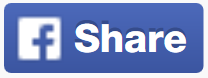
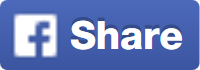
add facebook buttons to articles

diff --git a/index.html b/index.html
@@ -6,6 +6,7 @@
     <title>Thrasher Magazine</title>
   </head>
   <body>
+    <div id="mobile">
     <img class="shoe-ad" src="img/new-balance-ad.jpg" alt="new balance ad"/>
     <!--navbar-->
     <nav class="navbar navbar-inverse">
@@ -61,6 +62,13 @@
     </div>
     <!--/video card-->
 
+    <div class="black-1">
+    </div>
+    <div class="black-2">
+    </div>
+
+    <!--article card 1-->
+
     <div class="article-card">
       <h4>Vince Staples Interview</h4>
       <div class="article-image">
@@ -68,8 +76,13 @@
       </div>
       <div class="article-text">
         <p>Vince Staples had Lorem ipsum dolor sit amet, consectetur adipisicing elit, sed do eiusmod tempor incididunt ut labore et dolore magna aliqua.</p>
+        <img class="facebook-icon" src="img/facebook-icon.png" alt="facebook like icon">
+        <img class="facebook-icon share" src="img/facebook-share-icon.png" alt="facebookshare icon">
       </div>
     </div>
+    <!--/article card 1-->
+
+    <!--article card 2-->
     <div class="article-card">
       <h4>Thrash and Burn 2017</h4>
       <div class="article-image">
@@ -77,8 +90,13 @@
       </div>
       <div class="article-text">
         <p>Thrash and burn had Lorem ipsum dolor sit amet, consectetur adipisicing elit, sed do eiusmod tempor incididunt ut labore et dolore magna aliqua.</p>
+        <img class="facebook-icon" src="img/facebook-icon.png" alt="facebook like icon">
+        <img class="facebook-icon share" src="img/facebook-share-icon.png" alt="facebookshare icon">
       </div>
     </div>
+    <!--/article card 2-->
+
+    <!--article card 3-->
     <div class="article-card">
       <h4>John Lydon Interview</h4>
       <div class="article-image">
@@ -86,8 +104,14 @@
       </div>
       <div class="article-text">
         <p>John Lydon had Lorem ipsum dolor sit amet, consectetur adipisicing elit, sed do eiusmod tempor incididunt ut labore et dolore magna aliqua.</p>
+        <img class="facebook-icon" src="img/facebook-icon.png" alt="facebook like icon">
+        <img class="facebook-icon share" src="img/facebook-share-icon.png" alt="facebookshare icon">
       </div>
     </div>
+    <!--/article card 3-->
+
+
+    <!--article card 4-->
     <div class="article-card">
       <h4>SKATELINE 05.30.2107</h4>
       <div class="article-image">
@@ -95,10 +119,17 @@
       </div>
       <div class="article-text">
         <p>Skateline had Lorem ipsum dolor sit amet, consectetur adipisicing elit, sed do eiusmod tempor incididunt ut labore et dolore magna aliqua.</p>
+        <img class="facebook-icon" src="img/facebook-icon.png" alt="facebook like icon">
+        <img class="facebook-icon share" src="img/facebook-share-icon.png" alt="facebookshare icon">
       </div>
     </div>
-    <div class="black">
+    <!--/article card 4-->
+
+    <!--black ad wrapper-->
+    <div class="black-ad-wrapper">
       <img class="shoe-ad-square" src="img/new-balance-square-ad.jpeg" alt="new balance shoes ad">
     </div>
+  </div>
+    <!--/black ad wrapper-->
   </body>
 </html>

diff --git a/stylesheets/output.css b/stylesheets/output.css
@@ -502,7 +502,7 @@ body {
   width: 100%; }
 
 .article-card {
-  height: 184px;
+  min-height: 184px;
   border-bottom: 4px solid black;
   padding: 10px;
   overflow: auto; }
@@ -518,9 +518,11 @@ body {
 .article-text {
   width: 60%;
   float: left;
-  padding: 10px; }
+  padding: 0px 10px 10px 10px;
+  height: 120px;
+  position: relative; }
 
-.black {
+.black-ad-wrapper {
   background-color: black;
   height: 300px;
   position: relative; }
@@ -537,22 +539,31 @@ body {
   -o-transform: translate(-50%, -50%);
   transform: translate(-50%, -50%); }
 
+.article-text .facebook-icon {
+  position: absolute;
+  left: 10px;
+  top: 85px; }
+
+.article-text .share {
+  left: 79px;
+  top: 96px; }
+
 .thrasher-logo {
-  height: auto;
-  width: 110px; }
+  height: 30px;
+  width: 120px; }
 
 .navbar-inverse {
   background-color: #000;
   border-color: #000; }
 
 .navbar {
-  margin: 0; }
+  margin: 0;
+  height: 60px; }
 
 .video-bg {
   background-image: url("../img/concrete.jpg");
   background-size: cover;
-  padding: 15px;
-  border-bottom: 1px dashed grey; }
+  padding: 10px; }
 
 .video-card {
   width: 100%;
@@ -566,9 +577,19 @@ body {
 
 .video-text {
   background-color: white;
-  padding: 10px; }
+  padding: 10px;
+  border-top: 1px solid black; }
 
 .facebook-icon {
   width: 70px; }
+
+.black-1 {
+  background-color: black;
+  height: 15px;
+  border-bottom: 1px dashed grey; }
+
+.black-2 {
+  background-color: black;
+  height: 25px; }
 
 /*# sourceMappingURL=output.css.map */

diff --git a/stylesheets/layout/_panels.scss b/stylesheets/layout/_panels.scss
@@ -1,9 +1,8 @@
 .article-card {
-  height: 184px;
+  min-height: 184px;
   border-bottom: 4px solid black;
   padding: 10px;
   overflow: auto;
-
 }
 
  .article-image img {
@@ -18,11 +17,13 @@
 .article-text {
   width: 60%;
   float: left;
-  padding: 10px;
+  padding: 0px 10px 10px 10px;
+  height: 120px;
+  position: relative;
 }
 
 
-.black {
+.black-ad-wrapper {
   background-color: black;
   height: 300px;
   position: relative;
@@ -31,5 +32,16 @@
 .shoe-ad-square {
   @include position(absolute, 50%);
   @include transform(translate(-50%, -50%));
+}
+
+.article-text .facebook-icon {
+  position: absolute;
+  left: 10px;
+  top: 85px;
+}
+
+.article-text .share {
+  left: 79px;
+  top: 96px;
 
 }

diff --git a/stylesheets/components/_video.scss b/stylesheets/components/_video.scss
@@ -1,8 +1,7 @@
 .video-bg {
   background-image: url('../img/concrete.jpg');
   background-size: cover;
-  padding: 15px;
-  border-bottom: 1px dashed grey;
+  padding: 10px;
 }
 .video-card {
   width: 100%;
@@ -14,13 +13,12 @@
 .video {
   width: 100%;
   height: auto;
-
 }
 
 .video-text {
   background-color: white;
   padding: 10px;
-
+  border-top: 1px solid black;
 }
 
 .facebook-icon {

diff --git a/stylesheets/main.scss b/stylesheets/main.scss
@@ -20,7 +20,8 @@
   'base/base',
   'base/fonts',
   'base/typography',
-  'base/helpers';
+  'base/helpers',
+  'base/media-queries';
 
 // 4. Layout-related sections
 @import
@@ -34,7 +35,8 @@
 @import
   'components/button',
   'components/navbar',
-  'components/video';
+  'components/video',
+  'components/black';
 
 // 6. Page-specific styles
 @import

diff --git a/stylesheets/components/_navbar.scss b/stylesheets/components/_navbar.scss
@@ -1,5 +1,5 @@
 .thrasher-logo {
-  @include size(110px auto);
+  @include size(120px 30px);
 }
 
 .navbar-inverse {
@@ -8,4 +8,5 @@
 }
 .navbar {
   margin: 0;
+  height: 60px;
 }

diff --git a/stylesheets/components/_black.scss b/stylesheets/components/_black.scss
@@ -1,0 +1,10 @@
+.black-1 {
+  background-color: black;
+  height: 15px;
+  border-bottom: 1px dashed grey;
+}
+
+.black-2 {
+  background-color: black;
+  height: 25px;
+}

diff --git a/stylesheets/base/_media-queries.scss b/stylesheets/base/_media-queries.scss
@@ -1,0 +1,3 @@
+#mobile {
+  // @include span-columns(12);
+}
